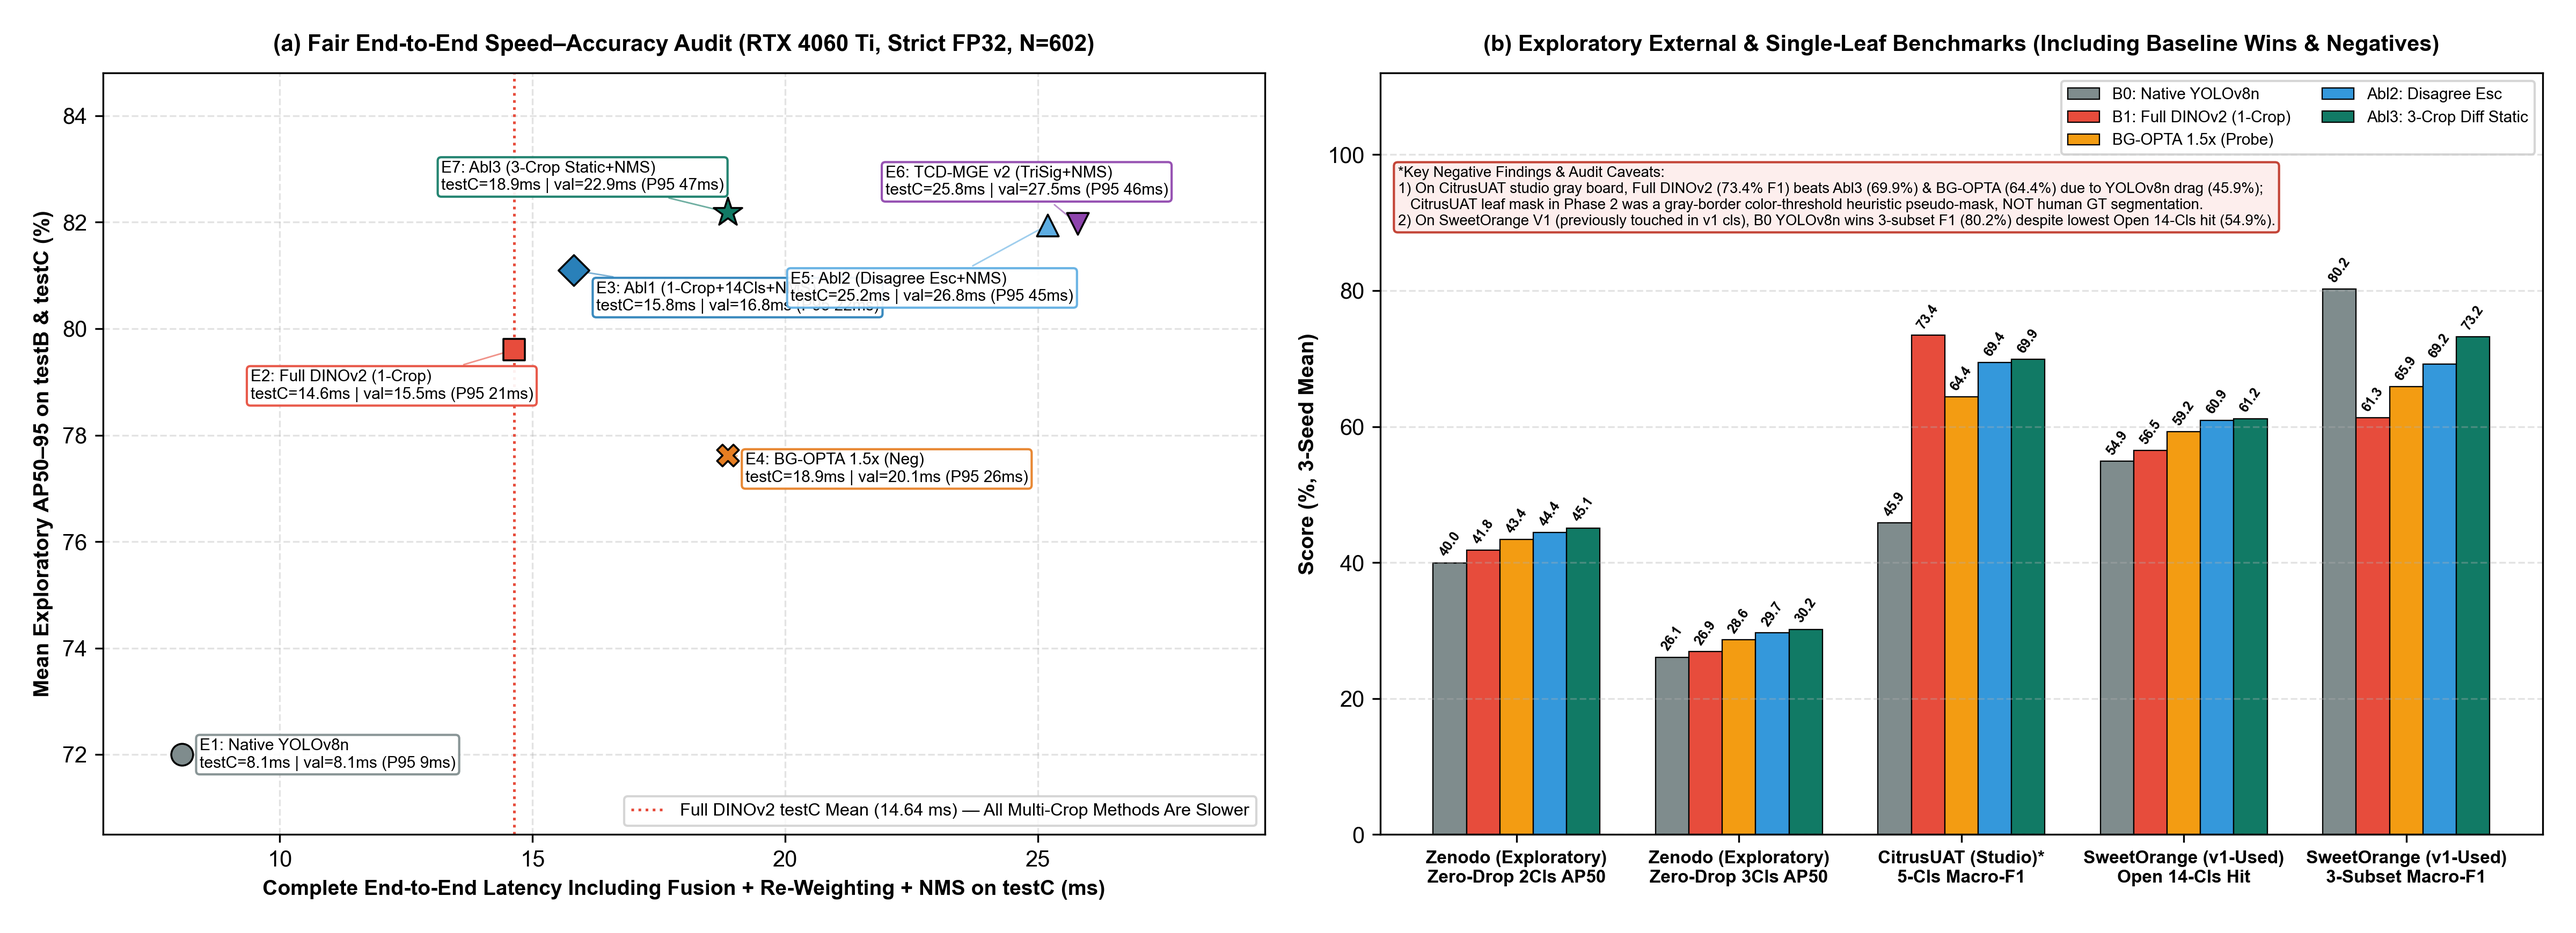
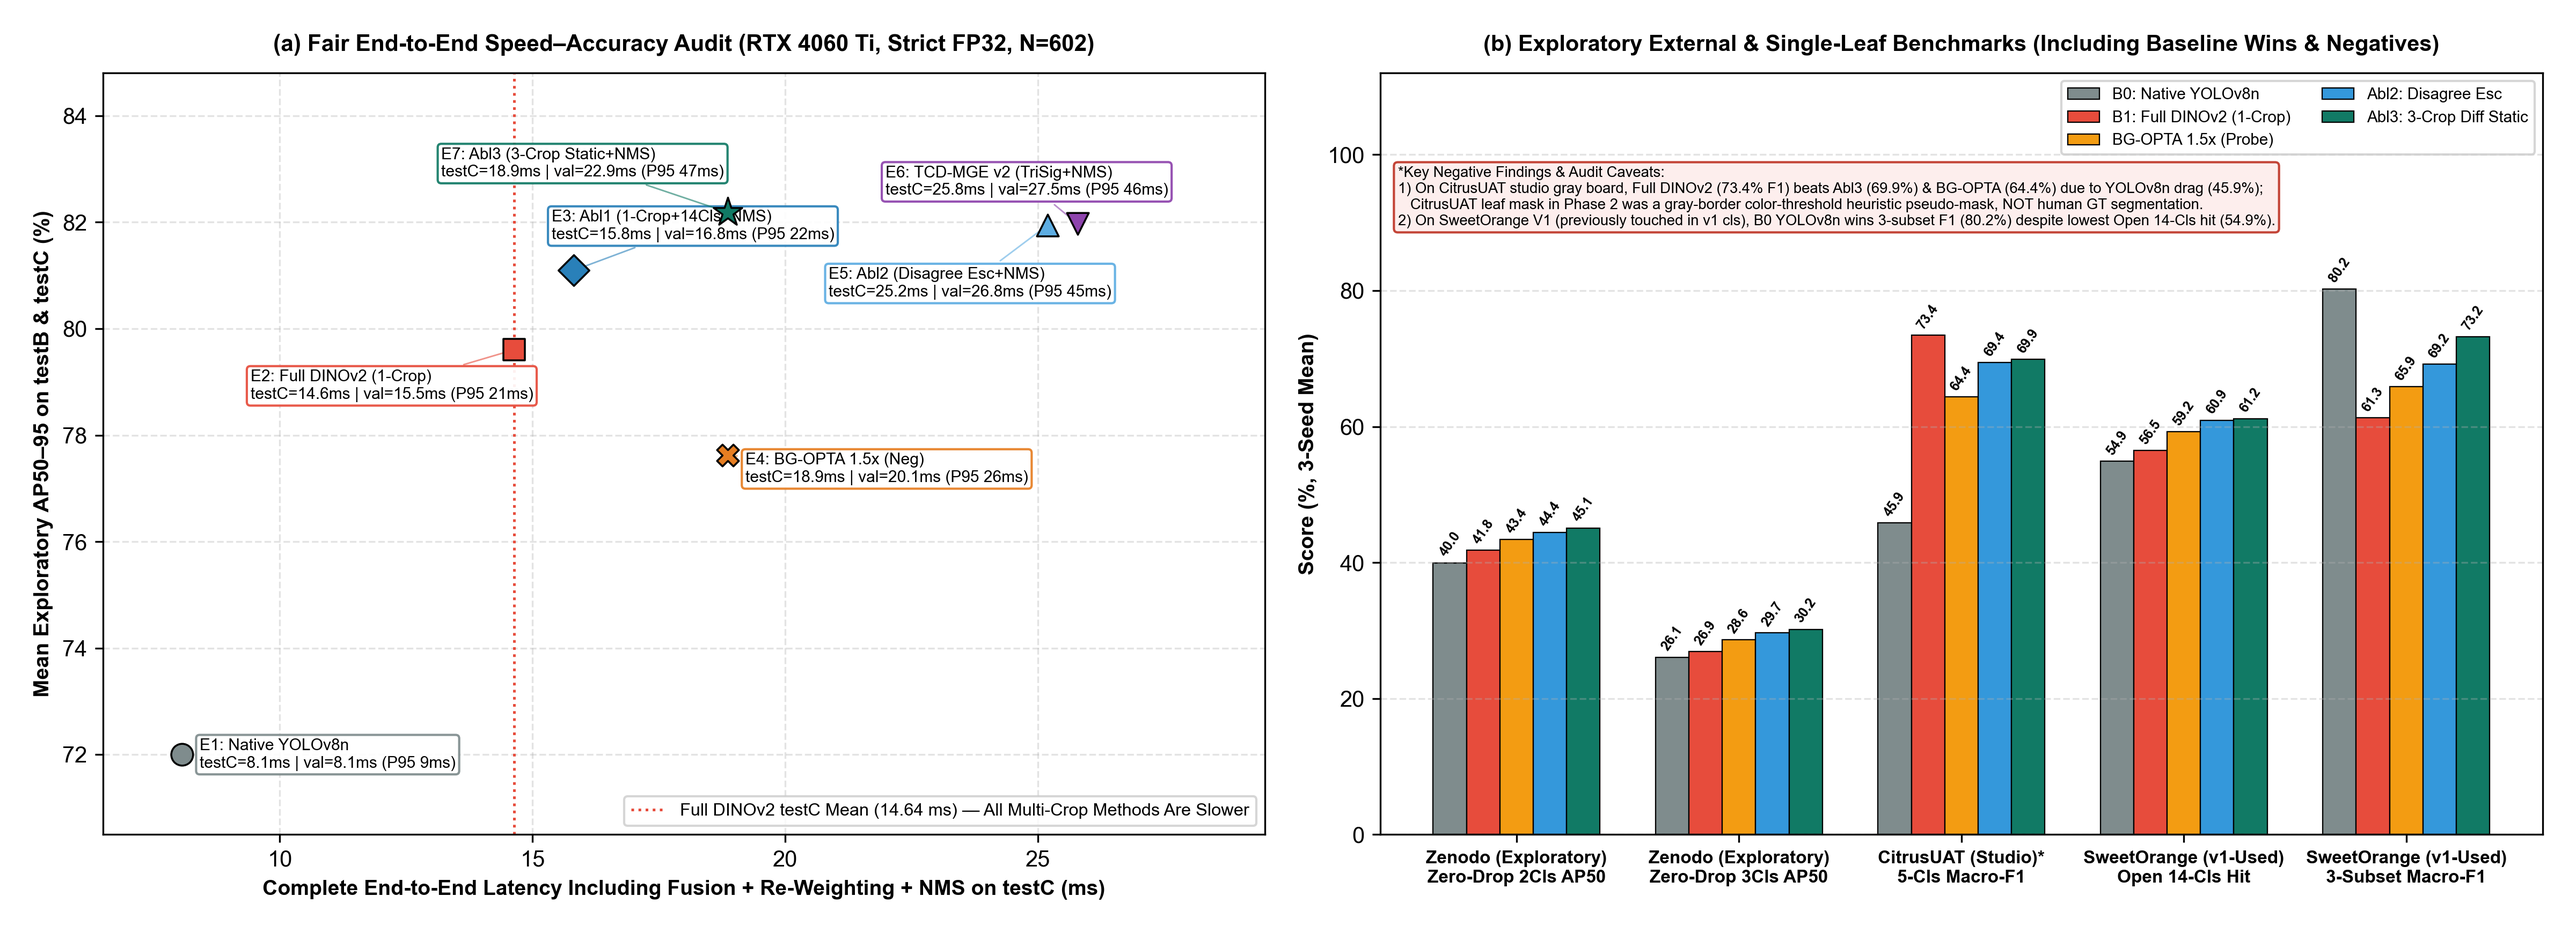
style(antigravity): 消除端到端延迟审计散点图E3与E5标注框边缘重叠

Changed region(s): [[0.1562, 0.1552, 0.4375, 0.3414]]

diff --git a/antigravity/v3_bgopta_and_dtemop/scripts/generate_honest_audit_figures.py b/antigravity/v3_bgopta_and_dtemop/scripts/generate_honest_audit_figures.py
@@ -166,13 +166,13 @@ def main():
         ('E2: Full DINOv2 (1-Crop)', 'E2_Full_DINOv2_1Crop_Hard',
          0.5 * (tcd_agg['B1a_Full_DINOv2_GrayPad_Orig']['testB']['AP50_95_mean'] + tcd_agg['B1a_Full_DINOv2_GrayPad_Orig']['testC']['AP50_95_mean']), '#e74c3c', 's', (-118, -22)),
         ('E3: Abl1 (1-Crop+14Cls+NMS)', 'E3_Abl1_SingleCrop_14Cls_Calib',
-         0.5 * (np.mean(pt_a2['testB']['Abl1_SingleCrop_14Cls_Calib']) + np.mean(pt_a2['testC']['Abl1_SingleCrop_14Cls_Calib'])), '#2980b9', 'D', (10, -18)),
+         0.5 * (np.mean(pt_a2['testB']['Abl1_SingleCrop_14Cls_Calib']) + np.mean(pt_a2['testC']['Abl1_SingleCrop_14Cls_Calib'])), '#2980b9', 'D', (-10, 14)),
         ('E4: BG-OPTA 1.5x (Neg)', 'E4_BGOPTA_1Pass_Full',
          0.5 * (scidb_p2['Ours_S3_BGOPTA_1Pass']['testB']['mean'] + scidb_p2['Ours_S3_BGOPTA_1Pass']['testC']['mean']), '#e67e22', 'X', (8, -12)),
         ('E7: Abl3 (3-Crop Static+NMS)', 'E7_Abl3_TriGranular_StaticWeight',
-         0.5 * (np.mean(pt_a2['testB']['Abl3_Diff_StaticWeight']) + np.mean(pt_a2['testC']['Abl3_Diff_StaticWeight'])), '#117a65', '*', (-128, 10)),
+         0.5 * (np.mean(pt_a2['testB']['Abl3_Diff_StaticWeight']) + np.mean(pt_a2['testC']['Abl3_Diff_StaticWeight'])), '#117a65', '*', (-128, 16)),
         ('E5: Abl2 (Disagree Esc+NMS)', 'E5_Abl2_Disagreement_Esc',
-         0.5 * (tcd_agg['Abl2_Disagreement_Esc_Only']['testB']['AP50_95_mean'] + tcd_agg['Abl2_Disagreement_Esc_Only']['testC']['AP50_95_mean']), '#5dade2', '^', (-115, -34)),
+         0.5 * (tcd_agg['Abl2_Disagreement_Esc_Only']['testB']['AP50_95_mean'] + tcd_agg['Abl2_Disagreement_Esc_Only']['testC']['AP50_95_mean']), '#5dade2', '^', (-98, -32)),
         ('E6: TCD-MGE v2 (TriSig+NMS)', 'E6_TCDMGE_v2_TriSignal_Esc',
          0.5 * (tcd_agg['Ours_TCDMGE_Selective']['testB']['AP50_95_mean'] + tcd_agg['Ours_TCDMGE_Selective']['testC']['AP50_95_mean']), '#8e44ad', 'v', (-86, 13)),
     ]
